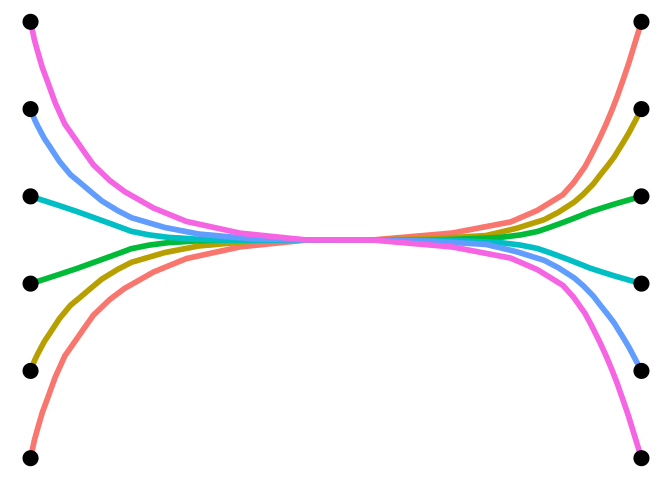
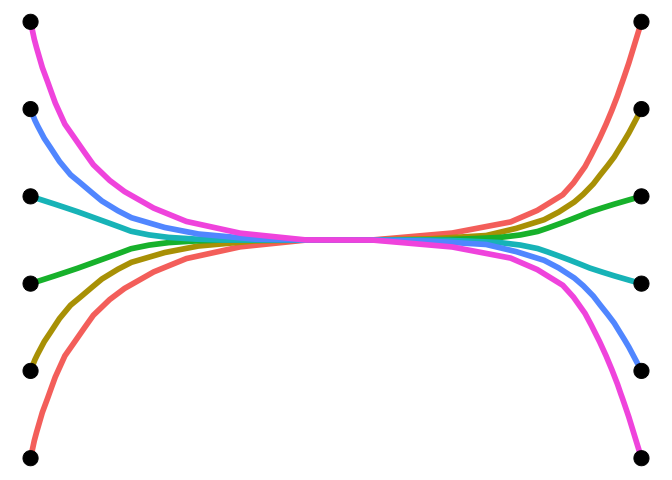
Deploying to gh-pages from @ schochastics/edgebundle@9c15359c9587f2dfbd6fda9632d81b44f620631e 🚀

diff --git a/index.html b/index.html
@@ -112,15 +112,11 @@ All functions return a data frame of points along the edges of the network that 
 <span></span>
 <span><span class="fu">ggplot</span><span class="op">(</span><span class="va">fbundle</span><span class="op">)</span> <span class="op">+</span></span>
 <span>    <span class="fu">geom_path</span><span class="op">(</span><span class="fu">aes</span><span class="op">(</span><span class="va">x</span>, <span class="va">y</span>, group <span class="op">=</span> <span class="va">group</span>, col <span class="op">=</span> <span class="fu"><a href="https://rdrr.io/r/base/factor.html" class="external-link">as.factor</a></span><span class="op">(</span><span class="va">group</span><span class="op">)</span><span class="op">)</span>,</span>
-<span>        size <span class="op">=</span> <span class="fl">2</span>, show.legend <span class="op">=</span> <span class="cn">FALSE</span></span>
+<span>        linewidth <span class="op">=</span> <span class="fl">2</span>, show.legend <span class="op">=</span> <span class="cn">FALSE</span></span>
 <span>    <span class="op">)</span> <span class="op">+</span></span>
 <span>    <span class="fu">geom_point</span><span class="op">(</span>data <span class="op">=</span> <span class="fu"><a href="https://rdrr.io/r/base/as.data.frame.html" class="external-link">as.data.frame</a></span><span class="op">(</span><span class="va">xy</span><span class="op">)</span>, <span class="fu">aes</span><span class="op">(</span><span class="va">V1</span>, <span class="va">V2</span><span class="op">)</span>, size <span class="op">=</span> <span class="fl">5</span><span class="op">)</span> <span class="op">+</span></span>
-<span>    <span class="fu">theme_void</span><span class="op">(</span><span class="op">)</span></span>
-<span><span class="co">#&gt; Warning: Using `size` aesthetic for lines was deprecated in ggplot2 3.4.0.</span></span>
-<span><span class="co">#&gt; ℹ Please use `linewidth` instead.</span></span>
-<span><span class="co">#&gt; This warning is displayed once every 8 hours.</span></span>
-<span><span class="co">#&gt; Call `lifecycle::last_lifecycle_warnings()` to see where this warning was generated.</span></span></code></pre></div>
-<p><img src="reference/figures/README-plot-1.png" width="100%" style="display: block; margin: auto;"></p>
+<span>    <span class="fu">theme_void</span><span class="op">(</span><span class="op">)</span></span></code></pre></div>
+<p><img src="reference/figures/README-plot-1.png" alt="" width="100%" style="display: block; margin: auto;"></p>
 <div class="sourceCode" id="cb6"><pre class="downlit sourceCode r">
 <code class="sourceCode R"><span></span>
 <span><span class="co"># simple edge-path bundling example</span></span>
@@ -133,12 +129,12 @@ All functions return a data frame of points along the edges of the network that 
 <span><span class="fu">ggplot</span><span class="op">(</span><span class="op">)</span> <span class="op">+</span></span>
 <span>    <span class="fu">geom_path</span><span class="op">(</span></span>
 <span>        data <span class="op">=</span> <span class="va">res</span>, <span class="fu">aes</span><span class="op">(</span><span class="va">x</span>, <span class="va">y</span>, group <span class="op">=</span> <span class="va">group</span>, col <span class="op">=</span> <span class="fu"><a href="https://rdrr.io/r/base/factor.html" class="external-link">as.factor</a></span><span class="op">(</span><span class="va">group</span><span class="op">)</span><span class="op">)</span>,</span>
-<span>        size <span class="op">=</span> <span class="fl">2</span>, show.legend <span class="op">=</span> <span class="cn">FALSE</span></span>
+<span>        linewidth <span class="op">=</span> <span class="fl">2</span>, show.legend <span class="op">=</span> <span class="cn">FALSE</span></span>
 <span>    <span class="op">)</span> <span class="op">+</span></span>
 <span>    <span class="fu">geom_point</span><span class="op">(</span>data <span class="op">=</span> <span class="fu"><a href="https://rdrr.io/r/base/as.data.frame.html" class="external-link">as.data.frame</a></span><span class="op">(</span><span class="va">xy</span><span class="op">)</span>, <span class="fu">aes</span><span class="op">(</span><span class="va">V1</span>, <span class="va">V2</span><span class="op">)</span>, size <span class="op">=</span> <span class="fl">5</span><span class="op">)</span> <span class="op">+</span></span>
 <span>    <span class="fu">scale_color_manual</span><span class="op">(</span>values <span class="op">=</span> <span class="fu"><a href="https://rdrr.io/r/base/c.html" class="external-link">c</a></span><span class="op">(</span><span class="st">"grey66"</span>, <span class="st">"firebrick3"</span>, <span class="st">"firebrick3"</span>, <span class="fu"><a href="https://rdrr.io/r/base/rep.html" class="external-link">rep</a></span><span class="op">(</span><span class="st">"grey66"</span>, <span class="fl">4</span><span class="op">)</span><span class="op">)</span><span class="op">)</span> <span class="op">+</span></span>
 <span>    <span class="fu">theme_void</span><span class="op">(</span><span class="op">)</span></span></code></pre></div>
-<p><img src="reference/figures/README-plot-2.png" width="100%" style="display: block; margin: auto;"></p>
+<p><img src="reference/figures/README-plot-2.png" alt="" width="100%" style="display: block; margin: auto;"></p>
 <p>For <code><a href="reference/edge_bundle_stub.html">edge_bundle_stub()</a></code>, you need <code>geom_bezier()</code> from the package {{ggforce}}.</p>
 <div class="sourceCode" id="cb7"><pre class="downlit sourceCode r">
 <code class="sourceCode R"><span><span class="kw"><a href="https://rdrr.io/r/base/library.html" class="external-link">library</a></span><span class="op">(</span><span class="va"><a href="https://ggforce.data-imaginist.com" class="external-link">ggforce</a></span><span class="op">)</span></span>
@@ -160,10 +156,10 @@ All functions return a data frame of points along the edges of the network that 
 <span><span class="va">sbundle</span> <span class="op">&lt;-</span> <span class="fu"><a href="reference/edge_bundle_stub.html">edge_bundle_stub</a></span><span class="op">(</span><span class="va">g</span>, <span class="va">xy</span>, beta <span class="op">=</span> <span class="fl">90</span><span class="op">)</span></span>
 <span></span>
 <span><span class="fu">ggplot</span><span class="op">(</span><span class="va">sbundle</span><span class="op">)</span> <span class="op">+</span></span>
-<span>    <span class="fu">geom_bezier</span><span class="op">(</span><span class="fu">aes</span><span class="op">(</span><span class="va">x</span>, <span class="va">y</span>, group <span class="op">=</span> <span class="va">group</span><span class="op">)</span>, size <span class="op">=</span> <span class="fl">1.5</span>, col <span class="op">=</span> <span class="st">"grey66"</span><span class="op">)</span> <span class="op">+</span></span>
+<span>    <span class="fu">geom_bezier</span><span class="op">(</span><span class="fu">aes</span><span class="op">(</span><span class="va">x</span>, <span class="va">y</span>, group <span class="op">=</span> <span class="va">group</span><span class="op">)</span>, linewidth <span class="op">=</span> <span class="fl">1.5</span>, col <span class="op">=</span> <span class="st">"grey66"</span><span class="op">)</span> <span class="op">+</span></span>
 <span>    <span class="fu">geom_point</span><span class="op">(</span>data <span class="op">=</span> <span class="fu"><a href="https://rdrr.io/r/base/as.data.frame.html" class="external-link">as.data.frame</a></span><span class="op">(</span><span class="va">xy</span><span class="op">)</span>, <span class="fu">aes</span><span class="op">(</span><span class="va">V1</span>, <span class="va">V2</span><span class="op">)</span>, size <span class="op">=</span> <span class="fl">5</span><span class="op">)</span> <span class="op">+</span></span>
 <span>    <span class="fu">theme_void</span><span class="op">(</span><span class="op">)</span></span></code></pre></div>
-<p><img src="reference/figures/README-bezier-1.png" width="100%" style="display: block; margin: auto;"></p>
+<p><img src="reference/figures/README-bezier-1.png" alt="" width="100%" style="display: block; margin: auto;"></p>
 <p>The typical edge bundling benchmark uses a dataset on us flights, which is included in the package.</p>
 <div class="sourceCode" id="cb8"><pre class="downlit sourceCode r">
 <code class="sourceCode R"><span><span class="va">g</span> <span class="op">&lt;-</span> <span class="va">us_flights</span></span>
@@ -181,15 +177,15 @@ All functions return a data frame of points along the edges of the network that 
 <span><span class="va">p1</span> <span class="op">&lt;-</span> <span class="fu">ggplot</span><span class="op">(</span><span class="op">)</span> <span class="op">+</span></span>
 <span>    <span class="fu">geom_polygon</span><span class="op">(</span></span>
 <span>        data <span class="op">=</span> <span class="va">states</span>, <span class="fu">aes</span><span class="op">(</span><span class="va">long</span>, <span class="va">lat</span>, group <span class="op">=</span> <span class="va">group</span><span class="op">)</span>,</span>
-<span>        col <span class="op">=</span> <span class="st">"white"</span>, size <span class="op">=</span> <span class="fl">0.1</span>, fill <span class="op">=</span> <span class="cn">NA</span></span>
+<span>        col <span class="op">=</span> <span class="st">"white"</span>, linewidth <span class="op">=</span>  <span class="fl">0.1</span>, fill <span class="op">=</span> <span class="cn">NA</span></span>
 <span>    <span class="op">)</span> <span class="op">+</span></span>
 <span>    <span class="fu">geom_path</span><span class="op">(</span></span>
 <span>        data <span class="op">=</span> <span class="va">fbundle</span>, <span class="fu">aes</span><span class="op">(</span><span class="va">x</span>, <span class="va">y</span>, group <span class="op">=</span> <span class="va">group</span><span class="op">)</span>,</span>
-<span>        col <span class="op">=</span> <span class="st">"#9d0191"</span>, size <span class="op">=</span> <span class="fl">0.05</span></span>
+<span>        col <span class="op">=</span> <span class="st">"#9d0191"</span>, linewidth <span class="op">=</span>  <span class="fl">0.05</span></span>
 <span>    <span class="op">)</span> <span class="op">+</span></span>
 <span>    <span class="fu">geom_path</span><span class="op">(</span></span>
 <span>        data <span class="op">=</span> <span class="va">fbundle</span>, <span class="fu">aes</span><span class="op">(</span><span class="va">x</span>, <span class="va">y</span>, group <span class="op">=</span> <span class="va">group</span><span class="op">)</span>,</span>
-<span>        col <span class="op">=</span> <span class="st">"white"</span>, size <span class="op">=</span> <span class="fl">0.005</span></span>
+<span>        col <span class="op">=</span> <span class="st">"white"</span>, linewidth <span class="op">=</span>  <span class="fl">0.005</span></span>
 <span>    <span class="op">)</span> <span class="op">+</span></span>
 <span>    <span class="fu">geom_point</span><span class="op">(</span></span>
 <span>        data <span class="op">=</span> <span class="va">verts</span>, <span class="fu">aes</span><span class="op">(</span><span class="va">x</span>, <span class="va">y</span><span class="op">)</span>,</span>
@@ -210,15 +206,15 @@ All functions return a data frame of points along the edges of the network that 
 <span><span class="va">p2</span> <span class="op">&lt;-</span> <span class="fu">ggplot</span><span class="op">(</span><span class="op">)</span> <span class="op">+</span></span>
 <span>    <span class="fu">geom_polygon</span><span class="op">(</span></span>
 <span>        data <span class="op">=</span> <span class="va">states</span>, <span class="fu">aes</span><span class="op">(</span><span class="va">long</span>, <span class="va">lat</span>, group <span class="op">=</span> <span class="va">group</span><span class="op">)</span>,</span>
-<span>        col <span class="op">=</span> <span class="st">"white"</span>, size <span class="op">=</span> <span class="fl">0.1</span>, fill <span class="op">=</span> <span class="cn">NA</span></span>
+<span>        col <span class="op">=</span> <span class="st">"white"</span>, linewidth <span class="op">=</span>  <span class="fl">0.1</span>, fill <span class="op">=</span> <span class="cn">NA</span></span>
 <span>    <span class="op">)</span> <span class="op">+</span></span>
 <span>    <span class="fu">geom_path</span><span class="op">(</span></span>
 <span>        data <span class="op">=</span> <span class="va">hbundle</span>, <span class="fu">aes</span><span class="op">(</span><span class="va">x</span>, <span class="va">y</span>, group <span class="op">=</span> <span class="va">group</span><span class="op">)</span>,</span>
-<span>        col <span class="op">=</span> <span class="st">"#9d0191"</span>, size <span class="op">=</span> <span class="fl">0.05</span></span>
+<span>        col <span class="op">=</span> <span class="st">"#9d0191"</span>, linewidth <span class="op">=</span>  <span class="fl">0.05</span></span>
 <span>    <span class="op">)</span> <span class="op">+</span></span>
 <span>    <span class="fu">geom_path</span><span class="op">(</span></span>
 <span>        data <span class="op">=</span> <span class="va">hbundle</span>, <span class="fu">aes</span><span class="op">(</span><span class="va">x</span>, <span class="va">y</span>, group <span class="op">=</span> <span class="va">group</span><span class="op">)</span>,</span>
-<span>        col <span class="op">=</span> <span class="st">"white"</span>, size <span class="op">=</span> <span class="fl">0.005</span></span>
+<span>        col <span class="op">=</span> <span class="st">"white"</span>, linewidth <span class="op">=</span>  <span class="fl">0.005</span></span>
 <span>    <span class="op">)</span> <span class="op">+</span></span>
 <span>    <span class="fu">geom_point</span><span class="op">(</span></span>
 <span>        data <span class="op">=</span> <span class="va">verts</span>, <span class="fu">aes</span><span class="op">(</span><span class="va">x</span>, <span class="va">y</span><span class="op">)</span>,</span>
@@ -243,21 +239,21 @@ All functions return a data frame of points along the edges of the network that 
 <span><span class="va">p3</span> <span class="op">&lt;-</span> <span class="fu">ggplot</span><span class="op">(</span><span class="op">)</span> <span class="op">+</span></span>
 <span>    <span class="fu">geom_polygon</span><span class="op">(</span></span>
 <span>        data <span class="op">=</span> <span class="va">states</span>, <span class="fu">aes</span><span class="op">(</span><span class="va">long</span>, <span class="va">lat</span>, group <span class="op">=</span> <span class="va">group</span><span class="op">)</span>,</span>
-<span>        col <span class="op">=</span> <span class="st">"white"</span>, size <span class="op">=</span> <span class="fl">0.1</span>, fill <span class="op">=</span> <span class="cn">NA</span></span>
+<span>        col <span class="op">=</span> <span class="st">"white"</span>, linewidth <span class="op">=</span>  <span class="fl">0.1</span>, fill <span class="op">=</span> <span class="cn">NA</span></span>
 <span>    <span class="op">)</span> <span class="op">+</span></span>
 <span>    <span class="fu">ggforce</span><span class="fu">::</span><span class="fu">geom_bezier</span><span class="op">(</span></span>
 <span>        data <span class="op">=</span> <span class="va">sbundle</span>, <span class="fu">aes</span><span class="op">(</span><span class="va">x</span>, <span class="va">y</span>,</span>
 <span>            group <span class="op">=</span> <span class="va">group</span>,</span>
 <span>            alpha <span class="op">=</span> <span class="fu">alpha_fct</span><span class="op">(</span><span class="va">..index..</span> <span class="op">*</span> <span class="fl">20</span><span class="op">)</span></span>
 <span>        <span class="op">)</span>, n <span class="op">=</span> <span class="fl">20</span>,</span>
-<span>        col <span class="op">=</span> <span class="st">"#9d0191"</span>, size <span class="op">=</span> <span class="fl">0.1</span>, show.legend <span class="op">=</span> <span class="cn">FALSE</span></span>
+<span>        col <span class="op">=</span> <span class="st">"#9d0191"</span>, linewidth <span class="op">=</span>  <span class="fl">0.1</span>, show.legend <span class="op">=</span> <span class="cn">FALSE</span></span>
 <span>    <span class="op">)</span> <span class="op">+</span></span>
 <span>    <span class="fu">ggforce</span><span class="fu">::</span><span class="fu">geom_bezier</span><span class="op">(</span></span>
 <span>        data <span class="op">=</span> <span class="va">sbundle</span>, <span class="fu">aes</span><span class="op">(</span><span class="va">x</span>, <span class="va">y</span>,</span>
 <span>            group <span class="op">=</span> <span class="va">group</span>,</span>
 <span>            alpha <span class="op">=</span> <span class="fu">alpha_fct</span><span class="op">(</span><span class="va">..index..</span> <span class="op">*</span> <span class="fl">20</span><span class="op">)</span></span>
 <span>        <span class="op">)</span>, n <span class="op">=</span> <span class="fl">20</span>,</span>
-<span>        col <span class="op">=</span> <span class="st">"white"</span>, size <span class="op">=</span> <span class="fl">0.01</span>, show.legend <span class="op">=</span> <span class="cn">FALSE</span></span>
+<span>        col <span class="op">=</span> <span class="st">"white"</span>, linewidth <span class="op">=</span>  <span class="fl">0.01</span>, show.legend <span class="op">=</span> <span class="cn">FALSE</span></span>
 <span>    <span class="op">)</span> <span class="op">+</span></span>
 <span>    <span class="fu">geom_point</span><span class="op">(</span></span>
 <span>        data <span class="op">=</span> <span class="va">verts</span>, <span class="fu">aes</span><span class="op">(</span><span class="va">x</span>, <span class="va">y</span><span class="op">)</span>,</span>
@@ -278,15 +274,15 @@ All functions return a data frame of points along the edges of the network that 
 <span><span class="va">p4</span> <span class="op">&lt;-</span> <span class="fu">ggplot</span><span class="op">(</span><span class="op">)</span> <span class="op">+</span></span>
 <span>    <span class="fu">geom_polygon</span><span class="op">(</span></span>
 <span>        data <span class="op">=</span> <span class="va">states</span>, <span class="fu">aes</span><span class="op">(</span><span class="va">long</span>, <span class="va">lat</span>, group <span class="op">=</span> <span class="va">group</span><span class="op">)</span>,</span>
-<span>        col <span class="op">=</span> <span class="st">"white"</span>, size <span class="op">=</span> <span class="fl">0.1</span>, fill <span class="op">=</span> <span class="cn">NA</span></span>
+<span>        col <span class="op">=</span> <span class="st">"white"</span>, linewidth <span class="op">=</span>  <span class="fl">0.1</span>, fill <span class="op">=</span> <span class="cn">NA</span></span>
 <span>    <span class="op">)</span> <span class="op">+</span></span>
 <span>    <span class="fu">geom_path</span><span class="op">(</span></span>
 <span>        data <span class="op">=</span> <span class="va">pbundle</span>, <span class="fu">aes</span><span class="op">(</span><span class="va">x</span>, <span class="va">y</span>, group <span class="op">=</span> <span class="va">group</span><span class="op">)</span>,</span>
-<span>        col <span class="op">=</span> <span class="st">"#9d0191"</span>, size <span class="op">=</span> <span class="fl">0.05</span></span>
+<span>        col <span class="op">=</span> <span class="st">"#9d0191"</span>, linewidth <span class="op">=</span>  <span class="fl">0.05</span></span>
 <span>    <span class="op">)</span> <span class="op">+</span></span>
 <span>    <span class="fu">geom_path</span><span class="op">(</span></span>
 <span>        data <span class="op">=</span> <span class="va">pbundle</span>, <span class="fu">aes</span><span class="op">(</span><span class="va">x</span>, <span class="va">y</span>, group <span class="op">=</span> <span class="va">group</span><span class="op">)</span>,</span>
-<span>        col <span class="op">=</span> <span class="st">"white"</span>, size <span class="op">=</span> <span class="fl">0.005</span></span>
+<span>        col <span class="op">=</span> <span class="st">"white"</span>, linewidth <span class="op">=</span>  <span class="fl">0.005</span></span>
 <span>    <span class="op">)</span> <span class="op">+</span></span>
 <span>    <span class="fu">geom_point</span><span class="op">(</span></span>
 <span>        data <span class="op">=</span> <span class="va">verts</span>, <span class="fu">aes</span><span class="op">(</span><span class="va">x</span>, <span class="va">y</span><span class="op">)</span>,</span>
@@ -308,7 +304,7 @@ All functions return a data frame of points along the edges of the network that 
 <span><span class="va">p2</span></span>
 <span><span class="va">p3</span></span>
 <span><span class="va">p4</span></span></code></pre></div>
-<p><img src="reference/figures/flights_fdeb.png" width="95%" style="display: block; margin: auto;"><img src="reference/figures/flights_heb.png" width="95%" style="display: block; margin: auto;"><img src="reference/figures/flights_seb.png" width="95%" style="display: block; margin: auto;"><img src="reference/figures/flights_peb.png" width="95%" style="display: block; margin: auto;"></p>
+<p><img src="reference/figures/flights_fdeb.png" alt="" width="95%" style="display: block; margin: auto;"><img src="reference/figures/flights_heb.png" alt="" width="95%" style="display: block; margin: auto;"><img src="reference/figures/flights_seb.png" alt="" width="95%" style="display: block; margin: auto;"><img src="reference/figures/flights_peb.png" alt="" width="95%" style="display: block; margin: auto;"></p>
 </div>
 <div class="section level2">
 <h2 id="flow-maps">Flow maps<a class="anchor" aria-label="anchor" href="#flow-maps"></a>
@@ -318,8 +314,7 @@ All functions return a data frame of points along the edges of the network that 
 <div class="sourceCode" id="cb9"><pre class="downlit sourceCode r">
 <code class="sourceCode R"><span><span class="va">xy</span> <span class="op">&lt;-</span> <span class="fu"><a href="https://rdrr.io/r/base/cbind.html" class="external-link">cbind</a></span><span class="op">(</span><span class="va">state.center</span><span class="op">$</span><span class="va">x</span>, <span class="va">state.center</span><span class="op">$</span><span class="va">y</span><span class="op">)</span><span class="op">[</span><span class="op">!</span><span class="va">state.name</span> <span class="op"><a href="https://rdrr.io/r/base/match.html" class="external-link">%in%</a></span> <span class="fu"><a href="https://rdrr.io/r/base/c.html" class="external-link">c</a></span><span class="op">(</span><span class="st">"Alaska"</span>, <span class="st">"Hawaii"</span><span class="op">)</span>, <span class="op">]</span></span>
 <span><span class="va">flow</span> <span class="op">&lt;-</span> <span class="fu"><a href="reference/flow_tree.html">flow_tree</a></span><span class="op">(</span><span class="va">cali2010</span>, <span class="va">xy</span>, root <span class="op">=</span> <span class="fl">4</span>, alpha <span class="op">=</span> <span class="fl">40</span><span class="op">)</span></span></code></pre></div>
-<p>The package also implements the older TNSS layout based on triangulation and approximate Steiner trees.</p>
-<p>The function <code><a href="reference/tnss_tree.html">tnss_tree()</a></code> expects a one-to-many flow network (i.e. a weighted star graph), a layout for the nodes and a set of dummy nodes created with <code><a href="reference/tnss_dummies.html">tnss_dummies()</a></code>.</p>
+<p>The package also implements the older TNSS layout based on triangulation and approximate Steiner trees. The function <code><a href="reference/tnss_tree.html">tnss_tree()</a></code> expects a one-to-many flow network (i.e. a weighted star graph), a layout for the nodes and a set of dummy nodes created with <code><a href="reference/tnss_dummies.html">tnss_dummies()</a></code>.</p>
 <div class="sourceCode" id="cb10"><pre class="downlit sourceCode r">
 <code class="sourceCode R"><span><span class="kw"><a href="https://rdrr.io/r/base/library.html" class="external-link">library</a></span><span class="op">(</span><span class="va"><a href="https://ggraph.data-imaginist.com" class="external-link">ggraph</a></span><span class="op">)</span></span>
 <span><span class="va">xy</span> <span class="op">&lt;-</span> <span class="fu"><a href="https://rdrr.io/r/base/cbind.html" class="external-link">cbind</a></span><span class="op">(</span><span class="va">state.center</span><span class="op">$</span><span class="va">x</span>, <span class="va">state.center</span><span class="op">$</span><span class="va">y</span><span class="op">)</span><span class="op">[</span><span class="op">!</span><span class="va">state.name</span> <span class="op"><a href="https://rdrr.io/r/base/match.html" class="external-link">%in%</a></span> <span class="fu"><a href="https://rdrr.io/r/base/c.html" class="external-link">c</a></span><span class="op">(</span><span class="st">"Alaska"</span>, <span class="st">"Hawaii"</span><span class="op">)</span>, <span class="op">]</span></span>
@@ -337,7 +332,7 @@ All functions return a data frame of points along the edges of the network that 
 <span>    <span class="fu">geom_node_point</span><span class="op">(</span><span class="fu">aes</span><span class="op">(</span>filter <span class="op">=</span> <span class="op">(</span><span class="va">name</span> <span class="op">==</span> <span class="st">"California"</span><span class="op">)</span><span class="op">)</span>, size <span class="op">=</span> <span class="fl">5</span>, shape <span class="op">=</span> <span class="fl">22</span>, fill <span class="op">=</span> <span class="st">"#cc0000"</span><span class="op">)</span> <span class="op">+</span></span>
 <span>    <span class="fu">theme_graph</span><span class="op">(</span><span class="op">)</span> <span class="op">+</span></span>
 <span>    <span class="fu">labs</span><span class="op">(</span>title <span class="op">=</span> <span class="st">"Migration from California (2010) - Flow map"</span><span class="op">)</span></span></code></pre></div>
-<p><img src="reference/figures/cali2010_flow.png" width="95%" style="display: block; margin: auto;"></p>
+<p><img src="reference/figures/cali2010_flow.png" alt="" width="95%" style="display: block; margin: auto;"></p>
 <p>To smooth the tree, use <code><a href="reference/tnss_smooth.html">tnss_smooth()</a></code>. Note that this changes the object type and you need to visualize it with {{ggplot2}} rather than {{ggraph}}.</p>
 <div class="sourceCode" id="cb11"><pre class="downlit sourceCode r">
 <code class="sourceCode R"><span><span class="va">smooth_df</span> <span class="op">&lt;-</span> <span class="fu"><a href="reference/tnss_smooth.html">tnss_smooth</a></span><span class="op">(</span><span class="va">gtree</span>, bw <span class="op">=</span> <span class="fl">5</span>, n <span class="op">=</span> <span class="fl">20</span><span class="op">)</span></span>
@@ -345,13 +340,13 @@ All functions return a data frame of points along the edges of the network that 
 <span><span class="fu">ggplot</span><span class="op">(</span><span class="op">)</span> <span class="op">+</span></span>
 <span>    <span class="fu">geom_polygon</span><span class="op">(</span>data <span class="op">=</span> <span class="va">us</span>, <span class="fu">aes</span><span class="op">(</span><span class="va">long</span>, <span class="va">lat</span>, group <span class="op">=</span> <span class="va">group</span><span class="op">)</span>, fill <span class="op">=</span> <span class="st">"#FDF8C7"</span>, col <span class="op">=</span> <span class="st">"black"</span><span class="op">)</span> <span class="op">+</span></span>
 <span>    <span class="fu">geom_path</span><span class="op">(</span></span>
-<span>        data <span class="op">=</span> <span class="va">smooth_df</span>, <span class="fu">aes</span><span class="op">(</span><span class="va">x</span>, <span class="va">y</span>, group <span class="op">=</span> <span class="va">destination</span>, size <span class="op">=</span> <span class="va">flow</span><span class="op">)</span>,</span>
+<span>        data <span class="op">=</span> <span class="va">smooth_df</span>, <span class="fu">aes</span><span class="op">(</span><span class="va">x</span>, <span class="va">y</span>, group <span class="op">=</span> <span class="va">destination</span>, linewidth <span class="op">=</span>  <span class="va">flow</span><span class="op">)</span>,</span>
 <span>        lineend <span class="op">=</span> <span class="st">"round"</span>, col <span class="op">=</span> <span class="st">"firebrick3"</span>, alpha <span class="op">=</span> <span class="fl">1</span></span>
 <span>    <span class="op">)</span> <span class="op">+</span></span>
 <span>    <span class="fu">theme_void</span><span class="op">(</span><span class="op">)</span> <span class="op">+</span></span>
 <span>    <span class="fu">scale_size</span><span class="op">(</span>range <span class="op">=</span> <span class="fu"><a href="https://rdrr.io/r/base/c.html" class="external-link">c</a></span><span class="op">(</span><span class="fl">0.5</span>, <span class="fl">3</span><span class="op">)</span>, guide <span class="op">=</span> <span class="st">"none"</span><span class="op">)</span> <span class="op">+</span></span>
 <span>    <span class="fu">labs</span><span class="op">(</span>title <span class="op">=</span> <span class="st">"Migration from California (2010) - Flow map smoothed"</span><span class="op">)</span></span></code></pre></div>
-<p><img src="reference/figures/cali2010_flow_smoothed.png" width="95%" style="display: block; margin: auto;"></p>
+<p><img src="reference/figures/cali2010_flow_smoothed.png" alt="" width="95%" style="display: block; margin: auto;"></p>
 <p>See <a href="http://minard.schochastics.net/" class="external-link">this gallery</a> for more examples and code.</p>
 </div>
 <div class="section level2">
@@ -378,7 +373,7 @@ All functions return a data frame of points along the edges of the network that 
 <span>    <span class="fu">geom_node_point</span><span class="op">(</span>shape <span class="op">=</span> <span class="fl">21</span>, col <span class="op">=</span> <span class="st">"white"</span>, fill <span class="op">=</span> <span class="st">"black"</span>, size <span class="op">=</span> <span class="fl">3</span>, stroke <span class="op">=</span> <span class="fl">0.5</span><span class="op">)</span> <span class="op">+</span></span>
 <span>    <span class="fu">theme_graph</span><span class="op">(</span><span class="op">)</span> <span class="op">+</span></span>
 <span>    <span class="fu">labs</span><span class="op">(</span>title <span class="op">=</span> <span class="st">"Subway Network Berlin"</span><span class="op">)</span></span></code></pre></div>
-<p><img src="reference/figures/metro_berlin.png" width="95%" style="display: block; margin: auto;"></p>
+<p><img src="reference/figures/metro_berlin.png" alt="" width="95%" style="display: block; margin: auto;"></p>
 </div>
 <div class="section level2">
 <h2 id="disclaimer">Disclaimer<a class="anchor" aria-label="anchor" href="#disclaimer"></a>

diff --git a/index.md b/index.md
@@ -86,14 +86,10 @@ library(ggplot2)
 
 ggplot(fbundle) +
     geom_path(aes(x, y, group = group, col = as.factor(group)),
-        size = 2, show.legend = FALSE
+        linewidth = 2, show.legend = FALSE
     ) +
     geom_point(data = as.data.frame(xy), aes(V1, V2), size = 5) +
     theme_void()
-#> Warning: Using `size` aesthetic for lines was deprecated in ggplot2 3.4.0.
-#> ℹ Please use `linewidth` instead.
-#> This warning is displayed once every 8 hours.
-#> Call `lifecycle::last_lifecycle_warnings()` to see where this warning was generated.
 ```
 
 ![](reference/figures/README-plot-1.png)
@@ -111,7 +107,7 @@ res <- edge_bundle_path(g, xy, max_distortion = 2, weight_fac = 2, segments = 50
 ggplot() +
     geom_path(
         data = res, aes(x, y, group = group, col = as.factor(group)),
-        size = 2, show.legend = FALSE
+        linewidth = 2, show.legend = FALSE
     ) +
     geom_point(data = as.data.frame(xy), aes(V1, V2), size = 5) +
     scale_color_manual(values = c("grey66", "firebrick3", "firebrick3", rep("grey66", 4))) +
@@ -145,7 +141,7 @@ xy <- matrix(c(
 sbundle <- edge_bundle_stub(g, xy, beta = 90)
 
 ggplot(sbundle) +
-    geom_bezier(aes(x, y, group = group), size = 1.5, col = "grey66") +
+    geom_bezier(aes(x, y, group = group), linewidth = 1.5, col = "grey66") +
     geom_point(data = as.data.frame(xy), aes(V1, V2), size = 5) +
     theme_void()
 ```
@@ -172,15 +168,15 @@ states <- map_data("state")
 p1 <- ggplot() +
     geom_polygon(
         data = states, aes(long, lat, group = group),
-        col = "white", size = 0.1, fill = NA
+        col = "white", linewidth =  0.1, fill = NA
     ) +
     geom_path(
         data = fbundle, aes(x, y, group = group),
-        col = "#9d0191", size = 0.05
+        col = "#9d0191", linewidth =  0.05
     ) +
     geom_path(
         data = fbundle, aes(x, y, group = group),
-        col = "white", size = 0.005
+        col = "white", linewidth =  0.005
     ) +
     geom_point(
         data = verts, aes(x, y),
@@ -201,15 +197,15 @@ p1 <- ggplot() +
 p2 <- ggplot() +
     geom_polygon(
         data = states, aes(long, lat, group = group),
-        col = "white", size = 0.1, fill = NA
+        col = "white", linewidth =  0.1, fill = NA
     ) +
     geom_path(
         data = hbundle, aes(x, y, group = group),
-        col = "#9d0191", size = 0.05
+        col = "#9d0191", linewidth =  0.05
     ) +
     geom_path(
         data = hbundle, aes(x, y, group = group),
-        col = "white", size = 0.005
+        col = "white", linewidth =  0.005
     ) +
     geom_point(
         data = verts, aes(x, y),
@@ -234,21 +230,21 @@ alpha_fct <- function(x, b = 0.01, p = 5, n = 20) {
 p3 <- ggplot() +
     geom_polygon(
         data = states, aes(long, lat, group = group),
-        col = "white", size = 0.1, fill = NA
+        col = "white", linewidth =  0.1, fill = NA
     ) +
     ggforce::geom_bezier(
         data = sbundle, aes(x, y,
             group = group,
             alpha = alpha_fct(..index.. * 20)
         ), n = 20,
-        col = "#9d0191", size = 0.1, show.legend = FALSE
+        col = "#9d0191", linewidth =  0.1, show.legend = FALSE
     ) +
     ggforce::geom_bezier(
         data = sbundle, aes(x, y,
             group = group,
             alpha = alpha_fct(..index.. * 20)
         ), n = 20,
-        col = "white", size = 0.01, show.legend = FALSE
+        col = "white", linewidth =  0.01, show.legend = FALSE
     ) +
     geom_point(
         data = verts, aes(x, y),
@@ -269,15 +265,15 @@ p3 <- ggplot() +
 p4 <- ggplot() +
     geom_polygon(
         data = states, aes(long, lat, group = group),
-        col = "white", size = 0.1, fill = NA
+        col = "white", linewidth =  0.1, fill = NA
     ) +
     geom_path(
         data = pbundle, aes(x, y, group = group),
-        col = "#9d0191", size = 0.05
+        col = "#9d0191", linewidth =  0.05
     ) +
     geom_path(
         data = pbundle, aes(x, y, group = group),
-        col = "white", size = 0.005
+        col = "white", linewidth =  0.005
     ) +
     geom_point(
         data = verts, aes(x, y),
@@ -321,9 +317,7 @@ flow <- flow_tree(cali2010, xy, root = 4, alpha = 40)
 ```
 
 The package also implements the older TNSS layout based on triangulation
-and approximate Steiner trees.
-
-The function
+and approximate Steiner trees. The function
 [`tnss_tree()`](https://schochastics.github.io/edgebundle/reference/tnss_tree.md)
 expects a one-to-many flow network (i.e. a weighted star graph), a
 layout for the nodes and a set of dummy nodes created with
@@ -363,7 +357,7 @@ smooth_df <- tnss_smooth(gtree, bw = 5, n = 20)
 ggplot() +
     geom_polygon(data = us, aes(long, lat, group = group), fill = "#FDF8C7", col = "black") +
     geom_path(
-        data = smooth_df, aes(x, y, group = destination, size = flow),
+        data = smooth_df, aes(x, y, group = destination, linewidth =  flow),
         lineend = "round", col = "firebrick3", alpha = 1
     ) +
     theme_void() +